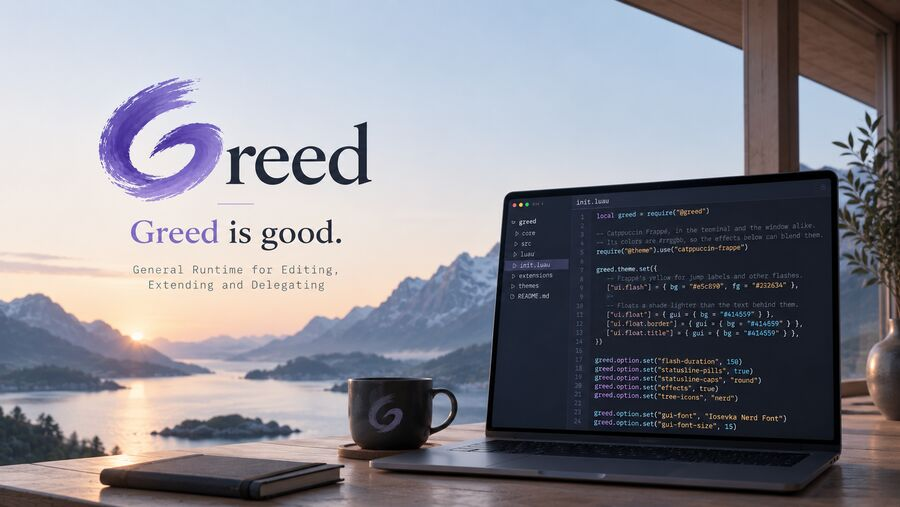
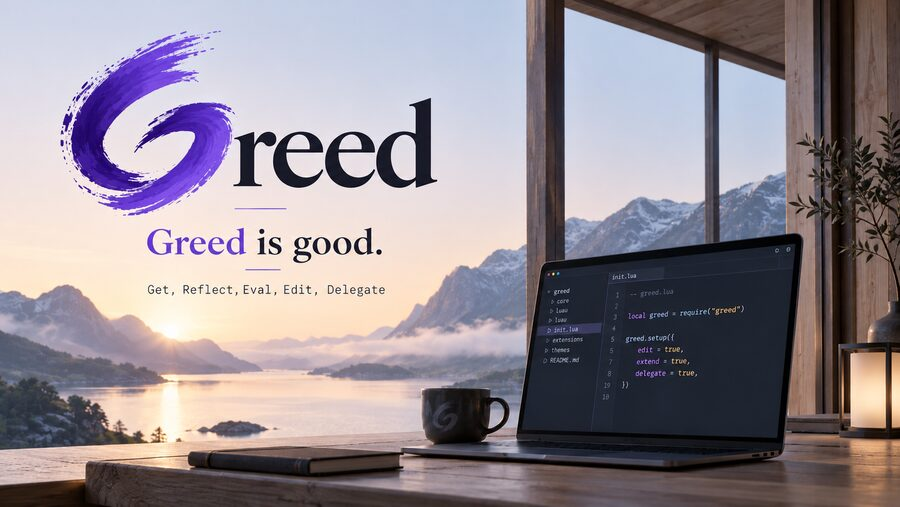
docs: Get, Reflect, Eval, Edit, Delegate; an execution environment with a good editor built in

diff --git a/site/index.html b/site/index.html
@@ -29,10 +29,10 @@
 
 <main>
   <section class="hero">
-    <h1 class="visually-hidden">Greed is good. General Runtime for Editing, Extending and Delegating.</h1>
+    <h1 class="visually-hidden">Greed is good. Get, Reflect, Eval, Edit, Delegate.</h1>
     <picture>
       <source media="(max-width: 900px)" srcset="assets/hero-900.jpg">
-      <img src="assets/hero.jpg" width="1672" height="941" alt="The Greed logo and the line “Greed is good.” beside a laptop showing a Greed config file, at a window over a fjord at sunrise.">
+      <img src="assets/hero.jpg" width="1672" height="941" alt="The Greed logo, the line “Greed is good.” and the words “Get, Reflect, Eval, Edit, Delegate” beside a laptop showing a Greed config file, at a window over a fjord at sunrise.">
     </picture>
   </section>
 

diff --git a/README.md b/README.md
@@ -1,8 +1,9 @@
-Greed, a General Runtime for Editing, Extending and Delegating, is an editor
-you use in a terminal or a window, on your machine or on the one where the
-work runs. It's a small Rust core with everything else in Luau: keys, modes,
-commands, pickers, themes and the agent integration are plugins you can
-read, change or replace while it runs.
+Greed (Get, Reflect, Eval, Edit, Delegate) is an execution environment
+with a good editor built in. You use it in a terminal or a window, on your
+machine or on the one where the work runs. It's a small Rust core with
+everything else in Luau: keys, modes, commands, pickers, themes and the
+agent integration are plugins you can read, change or replace while it
+runs.
 
 ```text
 $ greed src/main.rs          # edit; the session keeps running if you detach
@@ -148,7 +149,8 @@ To use your own copy of them, point `GREED_RUNTIME` at a folder shaped like
 - [How Greed is built](docs/design.md): what lives in Rust, what lives in
   Luau, and why.
 
-Greed is early and changes often.
+Or maybe it's Glorified REPL, Editor Eventually Discovered. Either way,
+it's early and changes often.
 
 Greed is licensed under the [Mozilla Public License 2.0](LICENSE); parts
 from other projects keep their own licenses, listed in

diff --git a/docs/README.md b/docs/README.md
@@ -1,12 +1,13 @@
 # Greed
 
-Greed, a General Runtime for Editing, Extending and Delegating, is an
-editor you use in a terminal or a window, on your machine or on the one
-where the work runs, with a small Rust core and everything else in Luau
-plugins you can read, change or replace while it runs. You edit in the
-Vim, Helix or VS Code style, modal or without modes, and switch with
-`:style`. Agents use the editor through MCP, the shell and Claude Code's
-`/ide`, or run inside it, and propose edits you review in the buffer.
+Greed (Get, Reflect, Eval, Edit, Delegate) is an execution environment
+with a good editor built in, which you use in a terminal or a window, on
+your machine or on the one where the work runs. It has a small Rust core
+and everything else in Luau plugins you can read, change or replace while
+it runs. You edit in the Vim, Helix or VS Code style, modal or without
+modes, and switch with `:style`. Agents use the editor through MCP, the
+shell and Claude Code's `/ide`, or run inside it, and propose edits you
+review in the buffer.
 
 New to Greed? Start it, answer its few questions, and run `:tutor`: it
 teaches your style's keys with lines to practise on, then shows you around.
